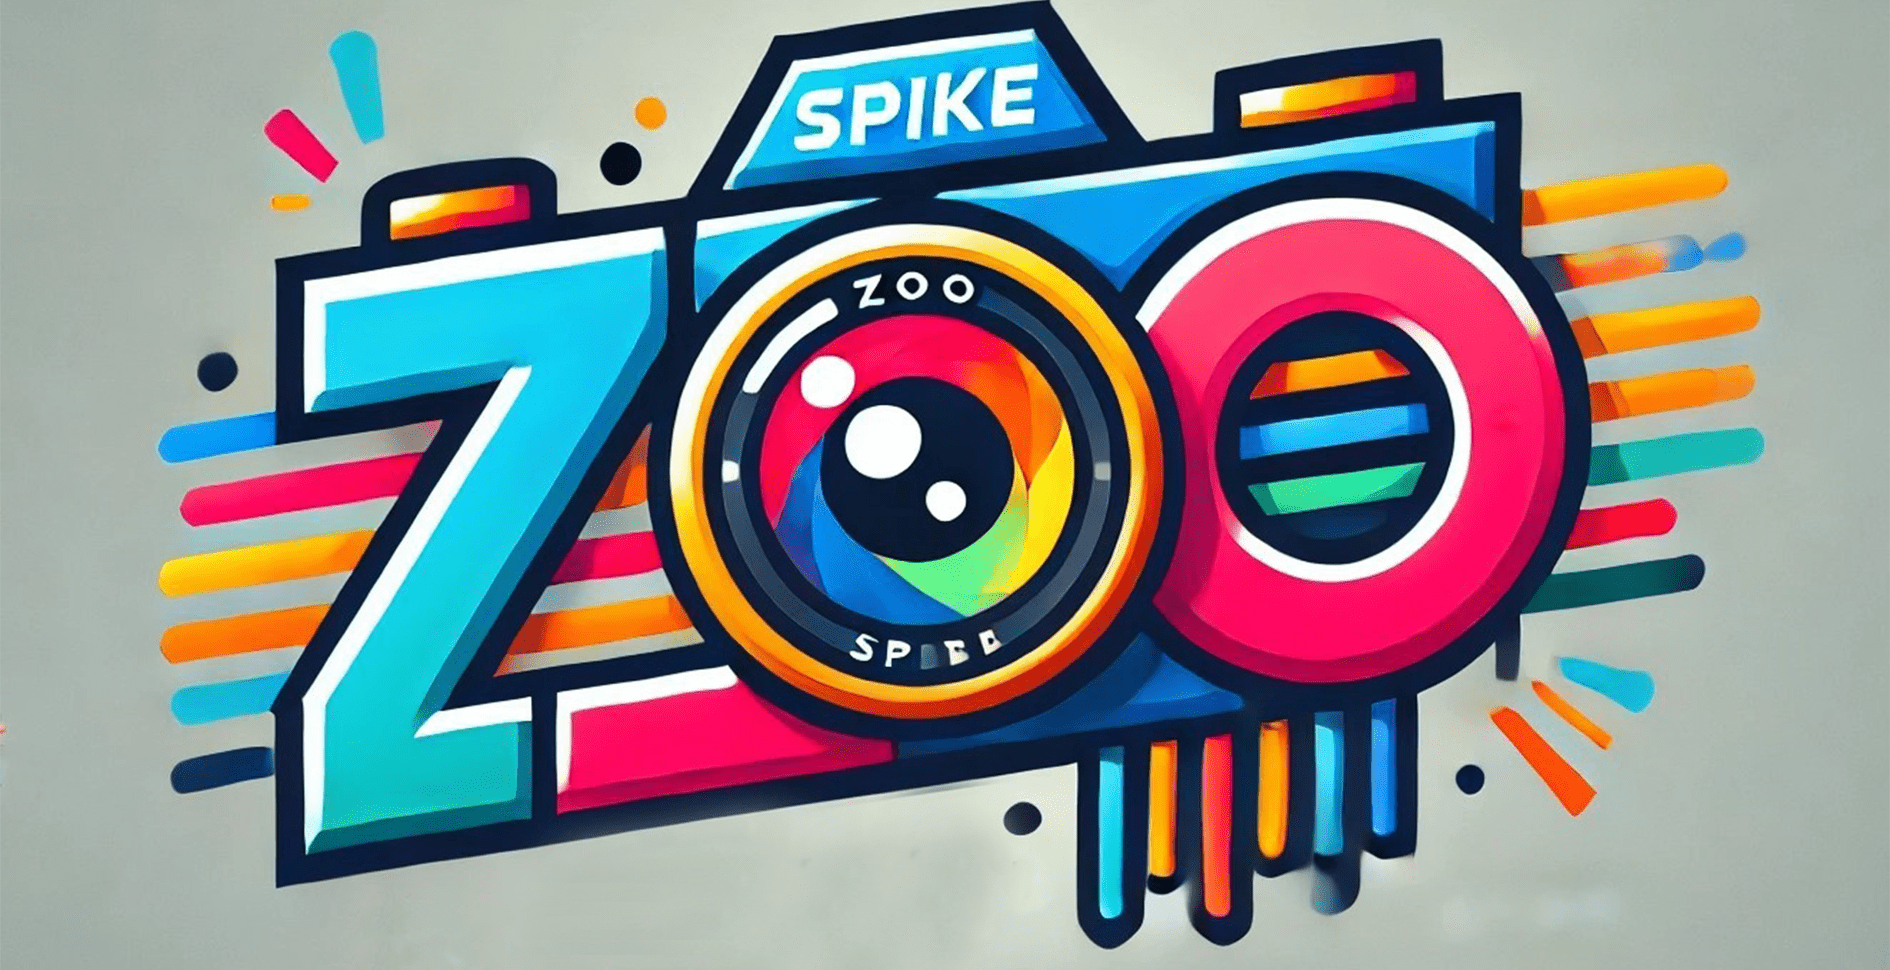
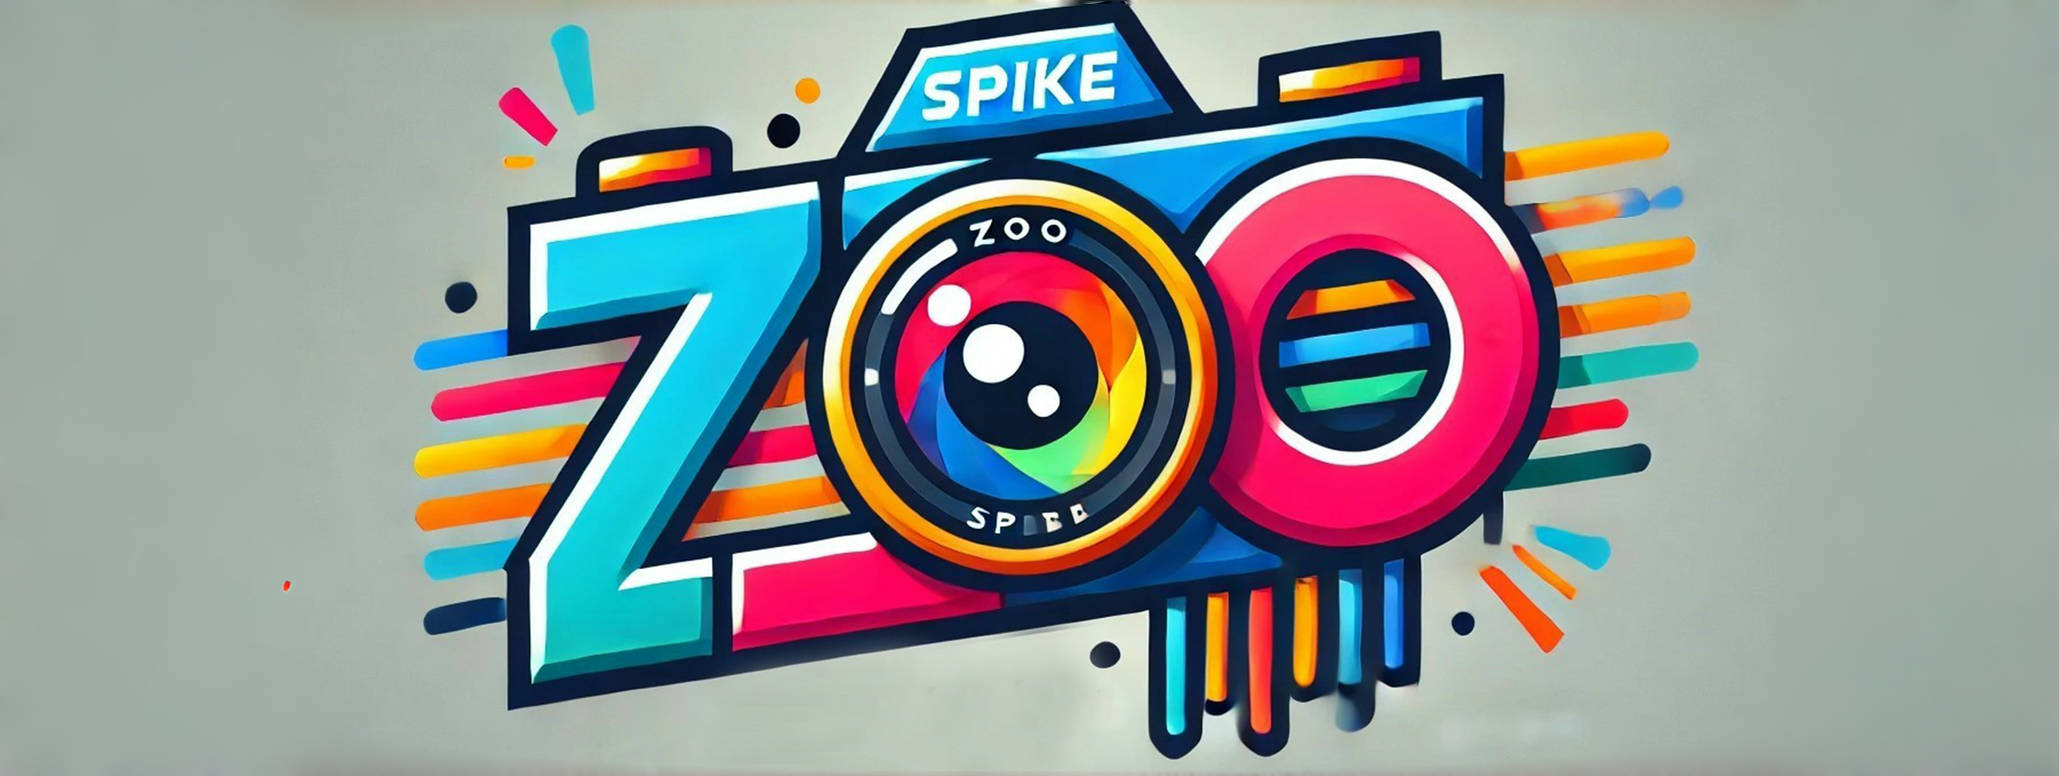
11

diff --git a/README.md b/README.md
@@ -12,7 +12,7 @@ If you like it, please give us a star ⭐ on GitHub.
 </h5>
 
 <p align="center">
-  <img src="figures/zoo_new.png" style="width:50%;">
+  <img src="figures/zoo_new.png" style="width:100%;">
 </p>
 
 
